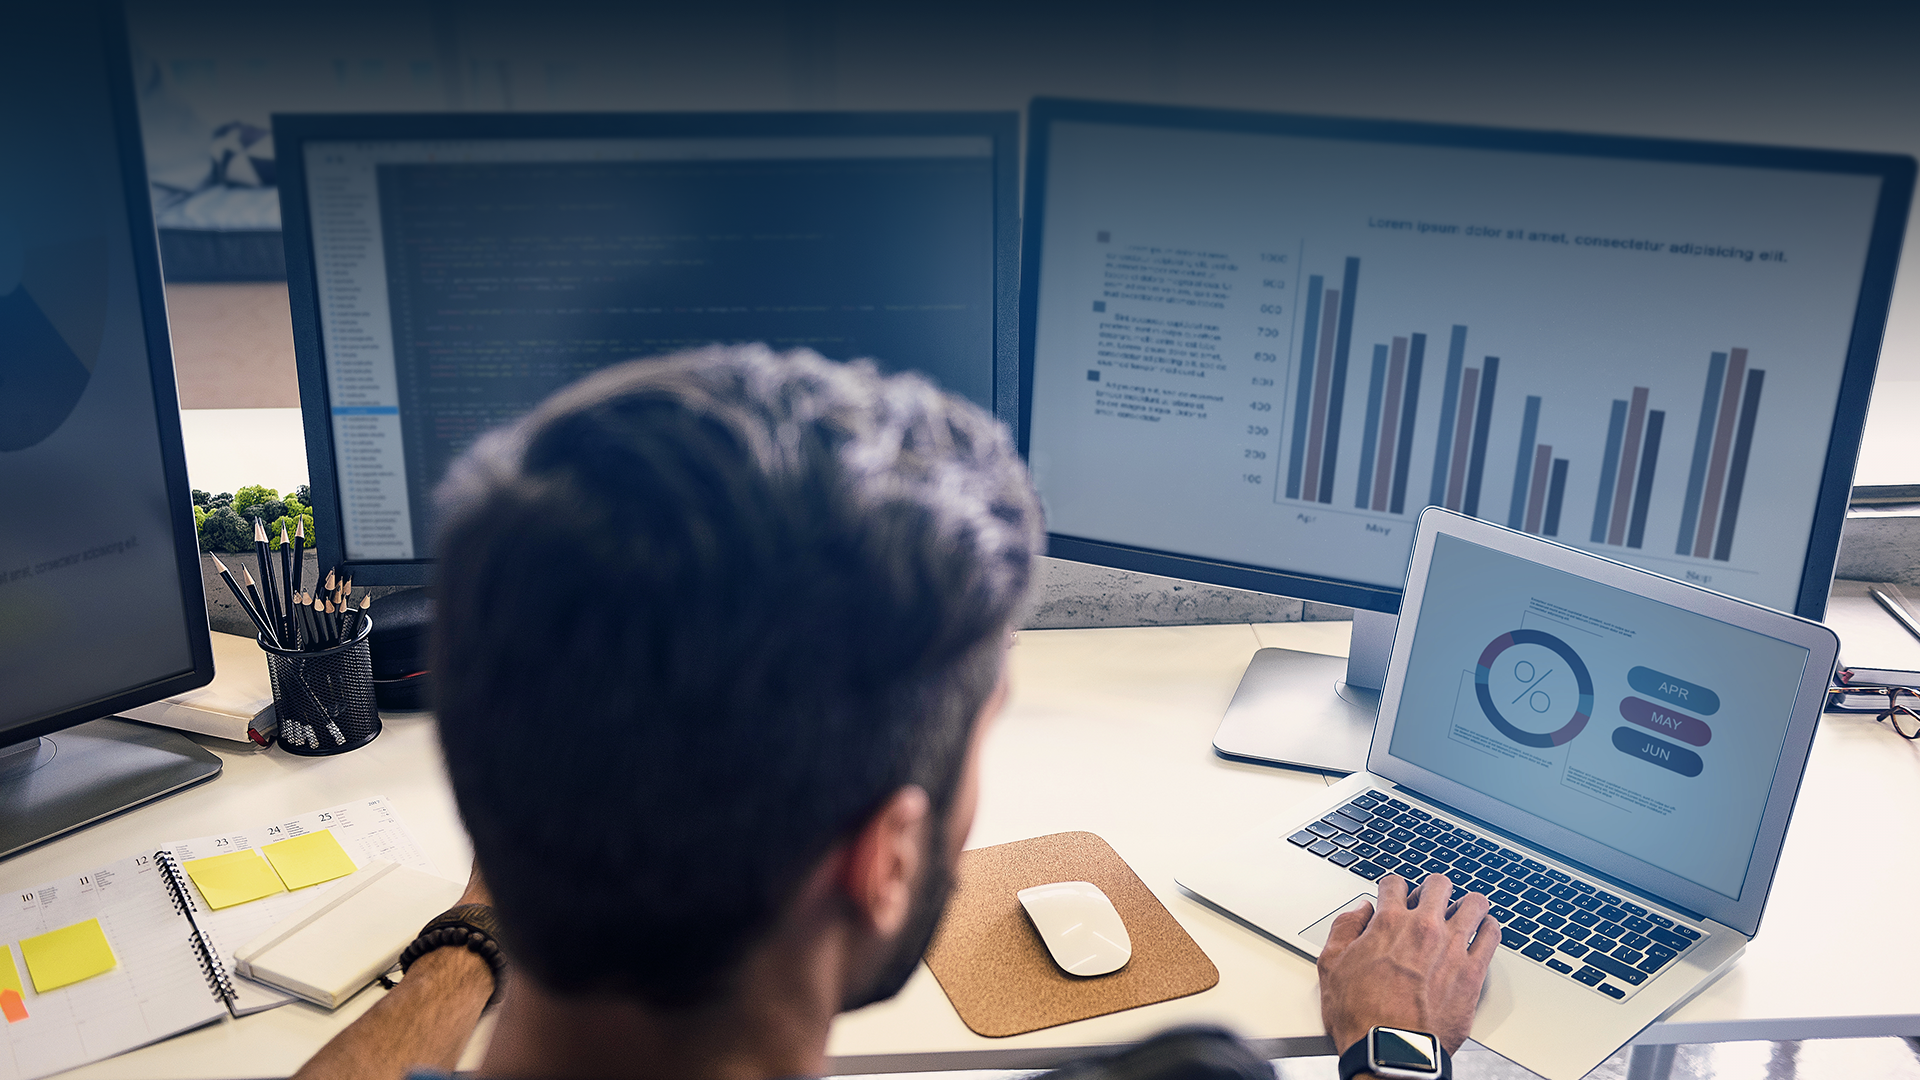
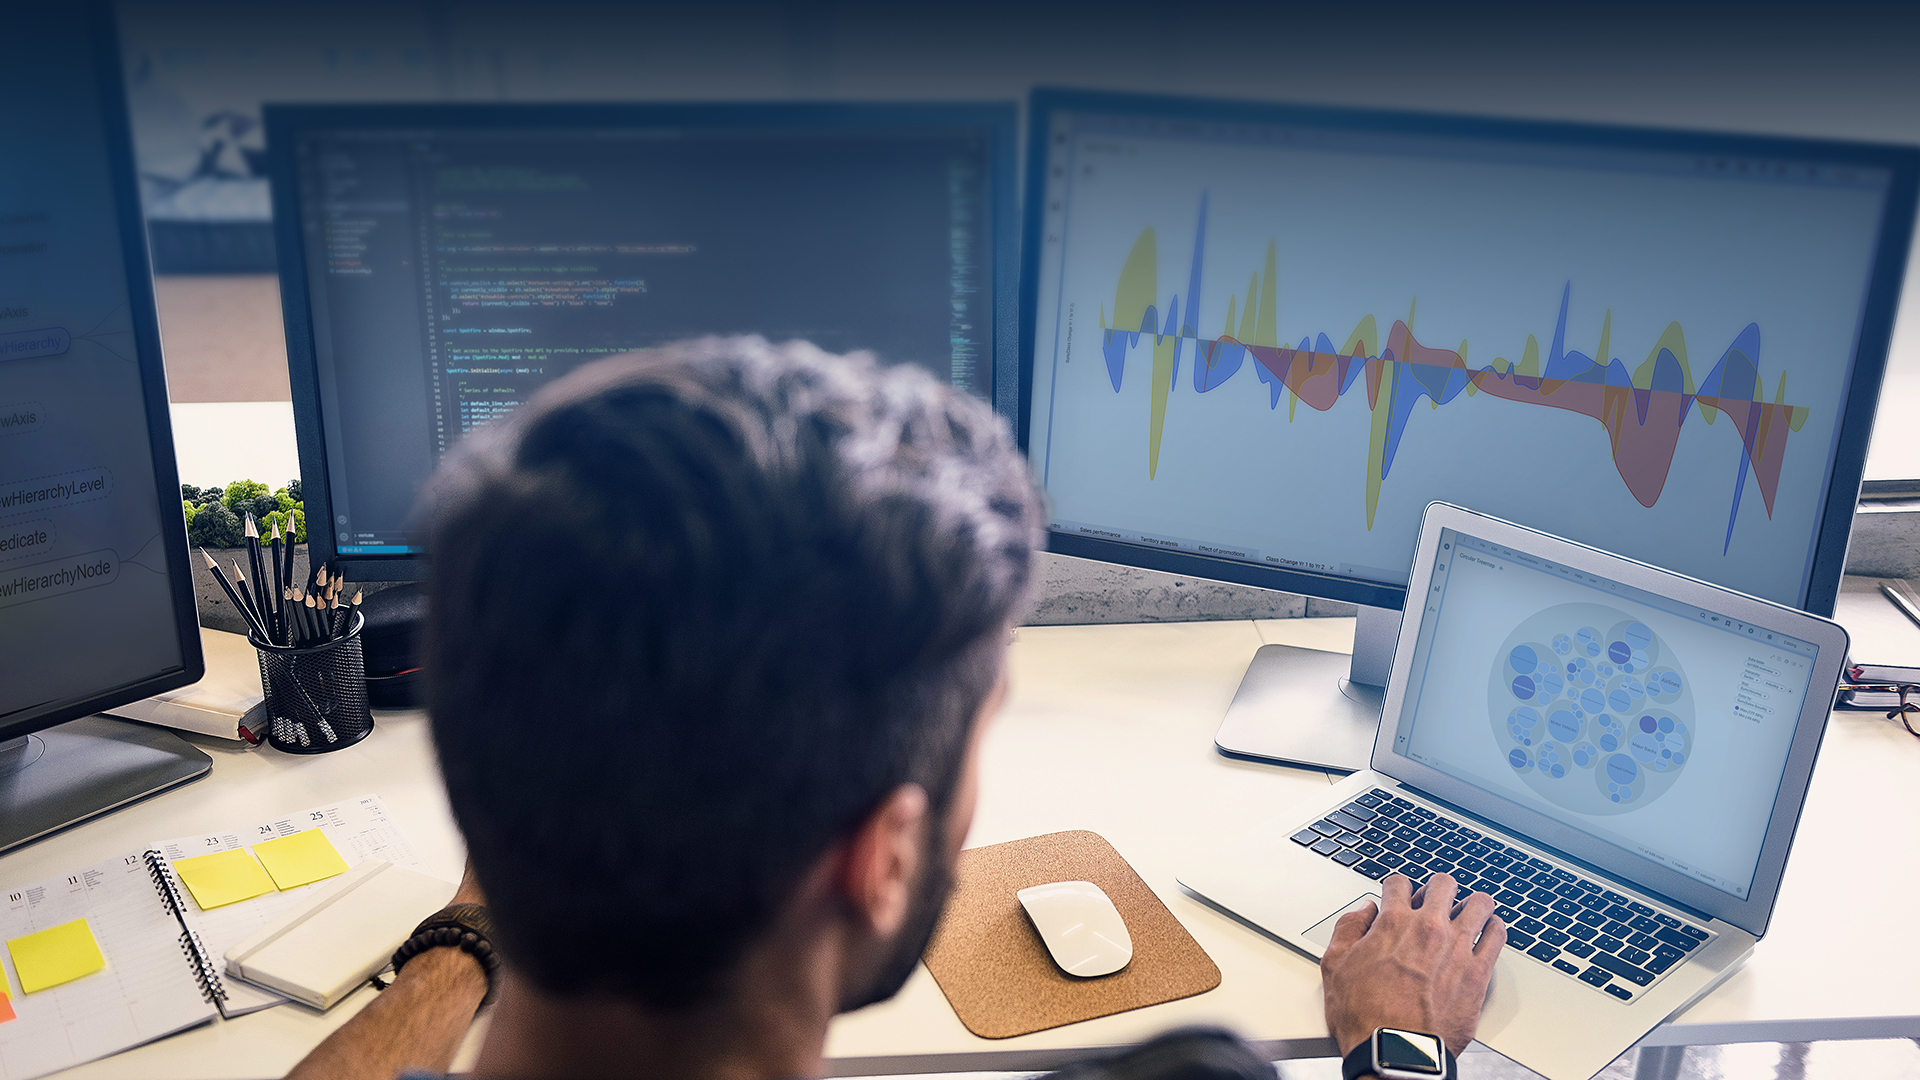
Update background image

diff --git a/index.html b/index.html
@@ -116,15 +116,15 @@
 
 
 
-<link rel="preload" as="image" href="/spotfire-mods/featured-background_huad0dc5ba39a16f530bb51ab1e69b1a4b_2692431_960x540_fill_catmullrom_top_2.png" media="(max-width: 1200px)">
-<link rel="preload" as="image" href="/spotfire-mods/featured-background_huad0dc5ba39a16f530bb51ab1e69b1a4b_2692431_1920x1080_fill_catmullrom_top_2.png" media="(min-width: 1200px)">
+<link rel="preload" as="image" href="/spotfire-mods/featured-background_hueb5f9e0ed0d279a5720c4ff3f834c51d_2512654_960x540_fill_catmullrom_top_2.png" media="(max-width: 1200px)">
+<link rel="preload" as="image" href="/spotfire-mods/featured-background_hueb5f9e0ed0d279a5720c4ff3f834c51d_2512654_1920x1080_fill_catmullrom_top_2.png" media="(min-width: 1200px)">
 <style>
 #td-cover-block-0 {
-    background-image: url(/spotfire-mods/featured-background_huad0dc5ba39a16f530bb51ab1e69b1a4b_2692431_960x540_fill_catmullrom_top_2.png); 
+    background-image: url(/spotfire-mods/featured-background_hueb5f9e0ed0d279a5720c4ff3f834c51d_2512654_960x540_fill_catmullrom_top_2.png); 
 }
 @media only screen and (min-width: 1200px) {
     #td-cover-block-0 {
-        background-image: url(/spotfire-mods/featured-background_huad0dc5ba39a16f530bb51ab1e69b1a4b_2692431_1920x1080_fill_catmullrom_top_2.png); 
+        background-image: url(/spotfire-mods/featured-background_hueb5f9e0ed0d279a5720c4ff3f834c51d_2512654_1920x1080_fill_catmullrom_top_2.png); 
     }
 }
 </style>
